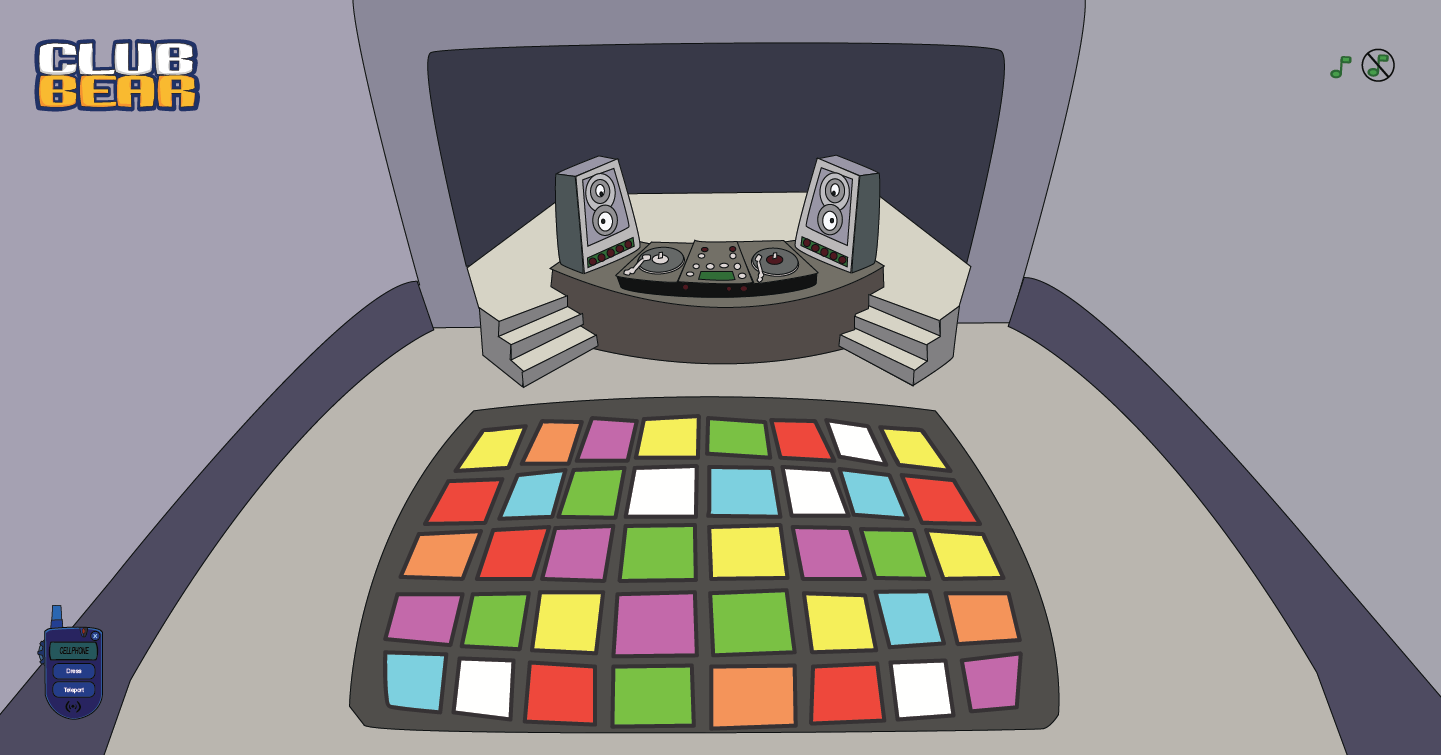
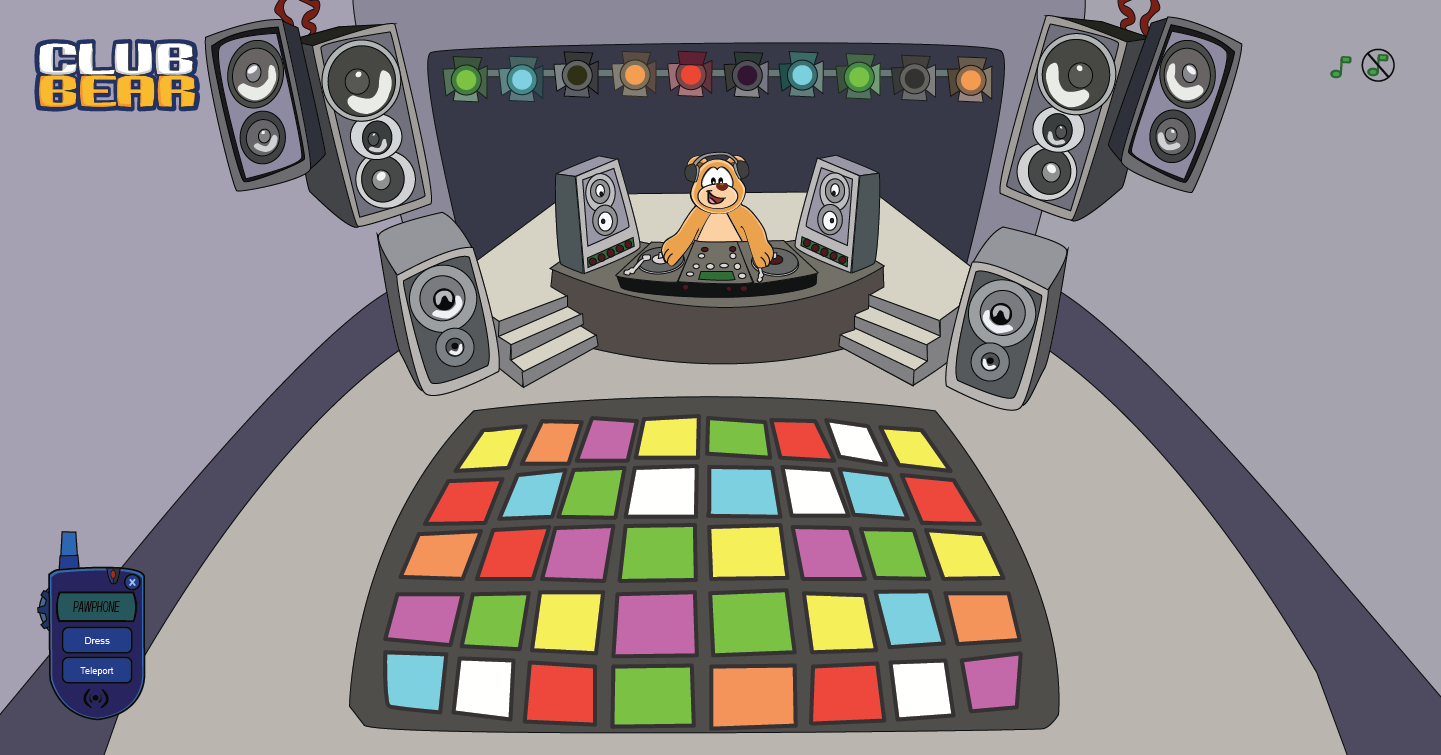
update

diff --git a/notes/final2/sketch.js b/notes/final2/sketch.js
@@ -19,14 +19,7 @@ var sweatshirtButton;
 
 var currentImage = 0;
 
-var entireicecreamPosX = 360;
-var icecreamPosX = 333;
 
-
-var icecreamY = 240;
-var cone1Y = 420;
-var cone2Y = 390;
-var fruitY = 193;
 
 
 var bearheadArray = [];
@@ -38,21 +31,20 @@ var sweatshirtArray = [];
 
 var reset;
 
-var fruitOffX = 0;
-var fruitOffY = 0;
 
 var shirtButton;
 
-var page = 2;
+var page = 0;
 
+var dressoptions
 var backgrounds = [];
 var backgroundCounter = 0;
 
 
 
 function preload(){
-//fruit1 = loadImage("assets/fruit1.jpg");
 mainpage = loadImage("assets/mainpage.jpg");
+mainpagewith = loadImage("assets/mainpagewith.jpg");
 bearheadArray[0] = loadImage("assets/bearhead.png");
 bearbodyArray[0] = loadImage("assets/bearbody.png");
 shortsleeveArray[0] = loadImage("assets/shortsleeve1.png");
@@ -64,9 +56,10 @@ tankArray[2] = loadImage("assets/tank3.png");
 sweatshirtArray[0] = loadImage("assets/sweatshirt1.png");
 sweatshirtArray[1] = loadImage("assets/sweatshirt2.png");
 sweatshirtArray[2] = loadImage("assets/sweatshirt3.png");
-backgrounds[0] = loadImage("assets/nightclub.png");
-backgrounds[1] = loadImage("assets/sweatshirt3.png");
-
+backgrounds[0] = loadImage("assets/nightclub.jpg");
+backgrounds[1] = loadImage("assets/university.jpg");
+dressoptions = loadImage ("assets/dressoptions.png")
+startpage = loadImage ("assets/startpage.jpg")
 empty = loadImage("assets/empty.png");
 
 
@@ -84,13 +77,13 @@ createCanvas(1440,754);
 
 shirt = empty;
 
-reset = createButton("Start Over");
-reset.position(70,620);
-reset.mousePressed(function(){
-  shortsleeve = empty;
-  tank = empty;
-  sweatshirt = empty;
-});
+//reset = createButton("Start Over");
+//reset.position(70,620);
+//reset.mousePressed(function(){
+  //shortsleeve = empty;
+  //tank = empty;
+  //sweatshirt = empty;
+//});
 
 
 
@@ -102,9 +95,29 @@ reset.mousePressed(function(){
 
 
 
+
 function draw() {
 background(255);
+//startpage
+if(page == 0){
+  image(startpage, 0,0, startpage.width, startpage.height);
+  bearhead = empty;
+    bearbody = empty;}
 
+  if(mouseX > 609 && mouseX < (609+203) && mouseY > 478 && mouseY < (478+84))
+  { page = 1;
+//    if(mouseIsPressed == true)
+  //  {image(mainpage, 0,0, mainpage.width, mainpage.height);}
+
+
+
+}
+
+//mainpage with (dress)
+if(page == 3){
+  image(mainpagewith, 0,0, mainpagewith.width, mainpagewith.height);}
+
+//dresspage
 if(page == 1){
   image(mainpage, 0,0, mainpage.width, mainpage.height);
   if(mouseX > 695 && mouseX < (802) && mouseY > 190 && mouseY < 217){
@@ -116,27 +129,31 @@ if(page == 1){
 
 
 
-  if(mouseX > 58 && mouseX < (99) && mouseY > 260 && mouseY < 280){
-    if(mouseIsPressed == true){
-      shirt = shortsleeveArray[0];
-    }
 
+
+
+//shortsleeve
+if(mouseX > 702 && mouseX < (702 + 113)&& mouseY > 137 && mouseY < (137 + 113)){
+  if(mouseIsPressed == true){
+    shirt = shortsleeveArray[0];
   }
 
-  if(mouseX > 119 && mouseX < (168) && mouseY > 260 && mouseY < 280){
-    if(mouseIsPressed == true){
-      shirt = shortsleeveArray[1];
-    }
+}
 
+if(mouseX > 824 && mouseX < (824 + 113)&& mouseY > 137 && mouseY < (137 + 113)){
+  if(mouseIsPressed == true){
+    shirt = shortsleeveArray[1];
   }
 
-  if(mouseX > 58 && mouseX < (99) && mouseY > 287 && mouseY < 310){
-    if(mouseIsPressed == true){
-      shirt = shortsleeveArray[2];
-    }
+}
 
+if(mouseX > 946 && mouseX < (946 + 113)&& mouseY > 137 && mouseY < (137 + 113)){
+  if(mouseIsPressed == true){
+    shirt = shortsleeveArray[2];
   }
 
+}
+//tanks
   if(mouseX > 702 && mouseX < (702 + 113)&& mouseY > 258 && mouseY < (258 + 113)){
     if(mouseIsPressed == true){
       shirt = tankArray[0];
@@ -144,34 +161,34 @@ if(page == 1){
 
   }
 
-  if(mouseX > 119 && mouseX < (159) && mouseY > 231 && mouseY < 248){
+  if(mouseX > 824 && mouseX < (824 + 113)&& mouseY > 258 && mouseY < (258 + 113)){
     if(mouseIsPressed == true){
       shirt = tankArray[1];
     }
 
   }
-  //vanilla
-  if(mouseX > 46 && mouseX < (108) && mouseY > 314 && mouseY < 356){
+
+  if(mouseX > 946 && mouseX < (946 + 113)&& mouseY > 258 && mouseY < (258 + 113)){
     if(mouseIsPressed == true){
       shirt = tankArray[2];
     }
 
   }
-  //chocolate
-  if(mouseX > 114 && mouseX < (171) && mouseY > 314 && mouseY < 356){
+  //sweatshirts
+  if(mouseX > 702 && mouseX < (702 + 113)&& mouseY > 380 && mouseY < (380 + 113)){
     if(mouseIsPressed == true){
       shirt = sweatshirtArray[0];
     }}
-  //pink
-  if(mouseX > 46 && mouseX < (108) && mouseY > 365 && mouseY < 408){
-    if(mouseIsPressed == true){
-      shirt = sweatshirtArray[1];
-    }}
-  //green
-  if(mouseX > 114 && mouseX < (171) && mouseY > 365 && mouseY < 408){
-    if(mouseIsPressed == true){
-      shirt = sweatshirtArray[2];
-    }}
+
+    if(mouseX > 824 && mouseX < (824 + 113)&& mouseY > 380 && mouseY < (380 + 113)){
+      if(mouseIsPressed == true){
+        shirt = sweatshirtArray[1];
+      }}
+
+      if(mouseX > 945 && mouseX < (945 + 113)&& mouseY > 380 && mouseY < (380 + 113)){
+        if(mouseIsPressed == true){
+          shirt = sweatshirtArray[2];
+        }}
 
   //end of icons
 
@@ -205,13 +222,12 @@ if(page == 1){
 
 // build bear
 
-image(bearbodyArray[0],357,275, bearbodyArray[0].width/1.2, bearbodyArray[0].height/1.2 );
+image(bearbodyArray[0],357,275, bearbodyArray[0].width/1.2, bearbodyArray[0].height/1.2);
 
 
 //shirts
 
 image(shirt, 391,301, shortsleeveArray[0].width/4.8, shortsleeveArray[0].height/4.8);
-
 
 
 // image(shortsleeveArray[0], 391,301, shortsleeveArray[0].width/4.8, shortsleeveArray[0].height/4.8);
@@ -229,9 +245,10 @@ image(shirt, 391,301, shortsleeveArray[0].width/4.8, shortsleeveArray[0].height/
 
 
 image(bearheadArray[0], 412,205, bearheadArray[0].width/2.5, bearheadArray[0].height/2.5);
+
 //end build bear
 
-ellipse(700,260,20,20);
+//ellipse(700,260,20,20);
 
 }
 
@@ -239,10 +256,16 @@ function mousePressed(){
 
   //shirts
   if(mouseX > 114 && mouseX < (171) && mouseY > 365 && mouseY < 408){
-  page = 1;
+  page = 3;
   }
+
+  // dress
+  if(mouseX > 55 && mouseX < (55 +69) && mouseY > 624 && mouseY < 624+25){
+    page = 3;}
+
+
 //transport
-  if(mouseX > 114 && mouseX < (171) && mouseY > 365 && mouseY < 408){
+  if(mouseX > 55 && mouseX < (55 +69) && mouseY > 654 && mouseY < 654+25){
     page = 2;
     backgroundCounter = backgroundCounter + 1;
     if(backgroundCounter == 2){
